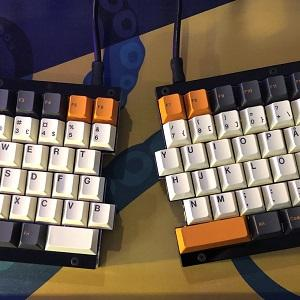
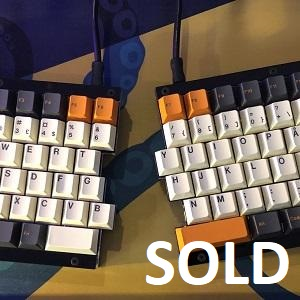
updated sold

Changed region(s): [[0.48, 0.78, 0.96, 0.96]]

diff --git a/index.html b/index.html
@@ -386,26 +386,6 @@ The case is of course very heavy due to the high density of the Mexican ebony. I
 						</a>
 					</li>
 					<li>
-						<a href="" data-largesrc="images/veaclone1.jpg" data-title="Split v.ea clone" data-description=
-						"
-						<b>Board: </b>Acrylic split V.EA clone</br>
-						<b>Layout: </b>75% split with two extra columns</br>
-						<b>Mount: </b>Sandwich</br>
-						<b>Plate: </b>Acrylic</br>
-						<b>PCB: </b>Split V.EA Clone PCB</br>
-						<b>Switches: </b>Gateron Blacks (unlubed)</br>
-						<b>Keycaps: </b>GMK carbon</br>
-						<b>Aquired: </b>June 2019</br></br>
-						<b>Additional information:</b></br>
-Bought this from AliExpress mostly because it was very cheap and I wanted to test split again. It is quite a large keyboard with the 75% layout and the extra two columns to the left.
-The keyboard case is built using six layers of acrylic, either black or transparent, where the plate is one and held together with screw. The two halves are connected using a Mini-USB cable.
-There are three indicator LEDs in the upper left corner. I decided on unlubed normal Gateron black switches due to them also being cheap. So it sounds quite bad but on the other hand is this not really a everyday keyboard either.
-						"
-						>
-							<img src="images/veaclone.jpg" alt="Boardwalk" width="300"/>
-						</a>
-					</li>
-					<li>
 						<a href="" data-largesrc="images/boardwalk.jpg" data-title="Boardwalk" data-description=
 						"
 						<b>Board: </b>Boardwalk in acrylic Tofu case</br>
@@ -483,6 +463,10 @@ It's a good little artisan-holder atleast. No additional pictures in gallery.
 					<li>
 						<a href="idbergo.html" data-title="idb Ergo" data-description=>
 							<img src="images/idbergo.jpg" alt="idb Ergo" width="300"/>
+						</a>
+					</li>
+					<li>
+							<img src="images/veaclone.jpg" alt="V.ea Clone" width="300"/>
 						</a>
 					</li>
 					<li>
